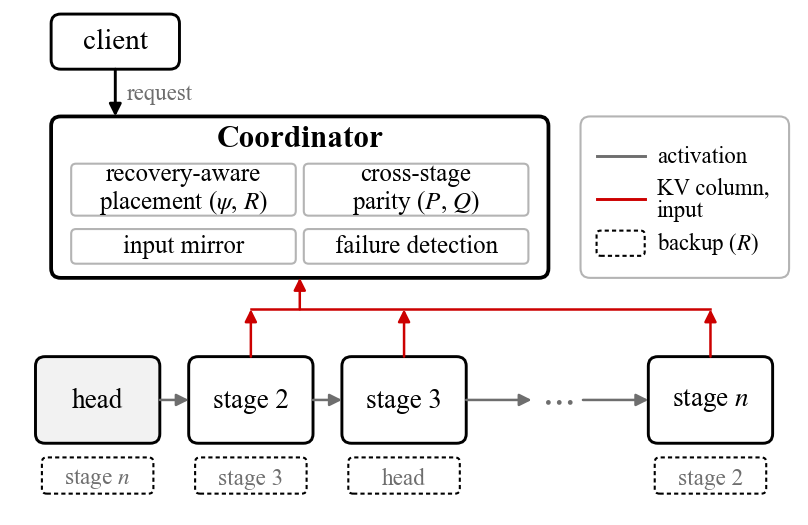
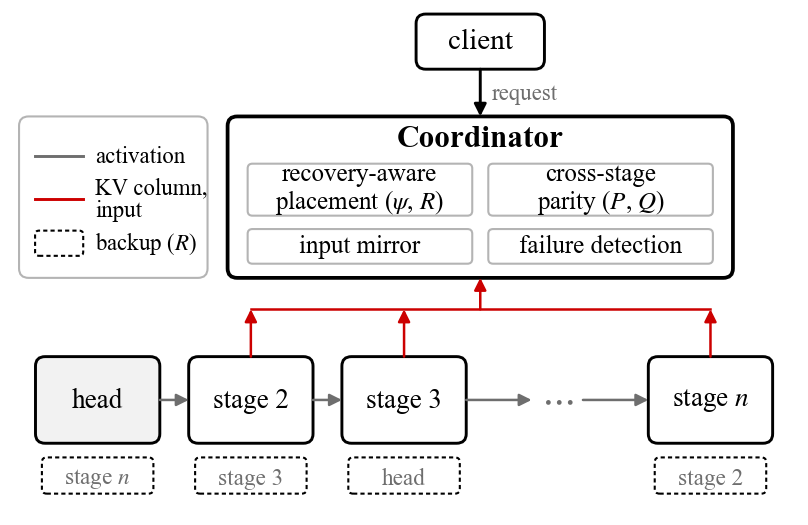
fix(figures): architecture figure — legend left, coordinator centred over the non-head workers

diff --git a/paper/figures/paper/make_architecture.py b/paper/figures/paper/make_architecture.py
@@ -28,21 +28,21 @@ def arrow(p, q, *, color=INK, ls="-", lw=0.7, z=3):
                                 shrinkA=0, shrinkB=0, mutation_scale=6))
 
 # --- client
-box(6, 66.5, 16, 7); ax.text(14, 70, "client", ha="center", va="center", size=7)
-arrow((14, 66.5), (14, 60.5)); ax.text(15.5, 63.5, "request", size=5.5, color=GRAY, va="center")
+box(51.5, 66.5, 16, 7); ax.text(59.5, 70, "client", ha="center", va="center", size=7)
+arrow((59.5, 66.5), (59.5, 60.5)); ax.text(61, 63.5, "request", size=5.5, color=GRAY, va="center")
 
 # --- coordinator
-box(6, 40, 62, 20.5, lw=0.9)
-ax.text(37, 57.6, "Coordinator", ha="center", va="center", size=7.5, weight="bold")
-for x, y, t in [(22.5, 51.2, "recovery-aware\nplacement ($\\psi$, $R$)"), (51.5, 51.2, "cross-stage\nparity ($P$, $Q$)"),
-                (22.5, 44.0, "input mirror"), (51.5, 44.0, "failure detection")]:
+box(28, 40, 63, 20.5, lw=0.9)
+ax.text(59.5, 57.6, "Coordinator", ha="center", va="center", size=7.5, weight="bold")
+for x, y, t in [(44.5, 51.2, "recovery-aware\nplacement ($\\psi$, $R$)"), (74.5, 51.2, "cross-stage\nparity ($P$, $Q$)"),
+                (44.5, 44.0, "input mirror"), (74.5, 44.0, "failure detection")]:
     h = 6.6 if "\n" in t else 4.4
     box(x - 14, y - h / 2, 28, h, ec=LIGHT, lw=0.5, r=0.6)
     ax.text(x, y, t, ha="center", va="center", size=6, linespacing=1.05)
 
 # --- legend (top right)
-lx = 72
-box(lx, 40, 26, 20.5, ec=LIGHT, lw=0.5)
+lx = 2
+box(lx, 40, 23.5, 20.5, ec=LIGHT, lw=0.5)
 ax.plot([lx + 2, lx + 8], [55.5, 55.5], color=GRAY, lw=0.7); ax.text(lx + 9.5, 55.5, "activation", size=5.5, va="center")
 ax.plot([lx + 2, lx + 8], [50, 50], color=EMPH, lw=0.7); ax.text(lx + 9.5, 50, "KV column,\ninput", size=5.5, va="center", linespacing=1.05)
 box(lx + 2, 42.8, 6, 3.2, ls=(0, (2, 1.5)), ec=INK, lw=0.5, r=0.5); ax.text(lx + 9.5, 44.4, "backup ($R$)", size=5.5, va="center")
@@ -72,6 +72,6 @@ for i in range(4):
     arrow((a, 24.5), (b, 24.5), color=GRAY, lw=0.6)
 # bus into the coordinator
 ax.plot([centers[1], centers[-1]], [36, 36], color=EMPH, lw=0.6, zorder=3)
-arrow((37, 36), (37, 40), color=EMPH, lw=0.6)
+arrow((59.5, 36), (59.5, 40), color=EMPH, lw=0.6)
 
 save(fig, "fig_architecture")
